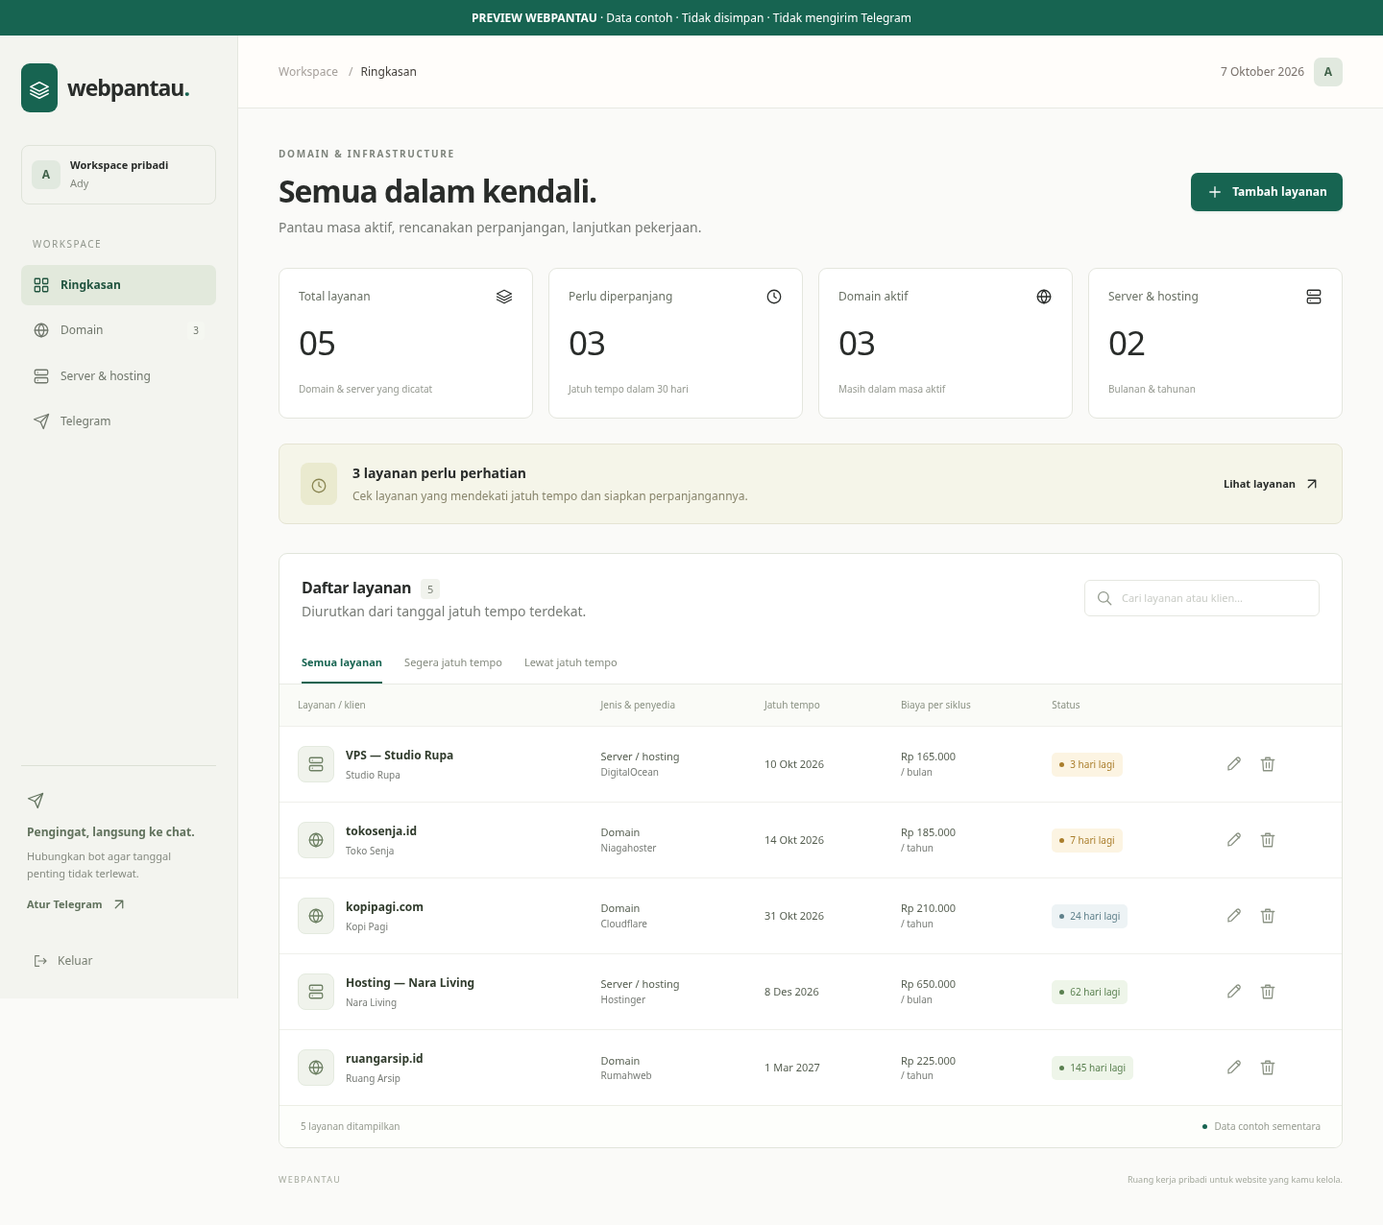
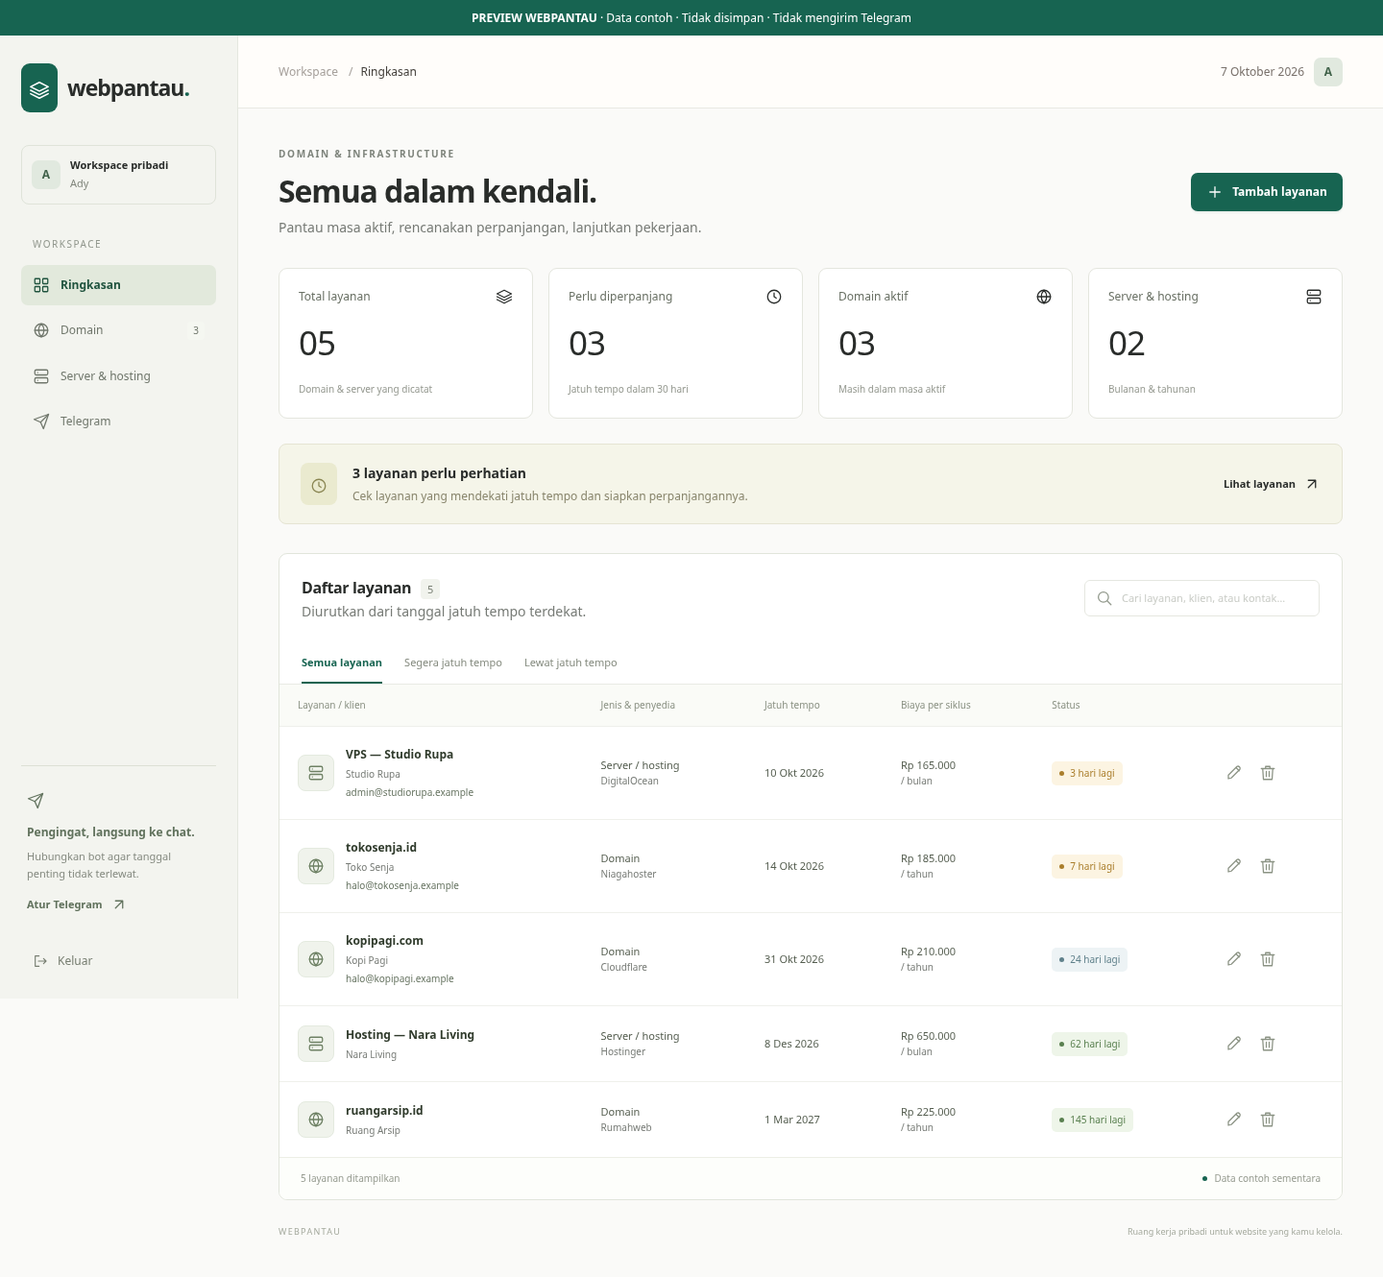
Add optional client contact to service forms and search

diff --git a/preview/index.html b/preview/index.html
@@ -33,6 +33,8 @@ button:focus-visible, a:focus-visible { outline: 2px solid #176451; }
 .main-wrap { min-width: 0; }
 .list-panel .overflow-x-auto { position: relative; }
 
+.service-contact { display: block; margin-top: 4px; color: #687563; max-width: 230px; white-space: normal; overflow-wrap: anywhere; }
+
 .preview-ribbon{background:#176451;color:white;padding:10px 16px;text-align:center;font:12px system-ui;position:relative;z-index:25}.sidebar{top:36px}.preview-ribbon strong{font-weight:700}@media(max-width:767px){.sidebar.open{top:112px}.preview-ribbon{font-size:10px}}</style></head><body>
 <div class="preview-ribbon"><strong>PREVIEW WEBPANTAU</strong> · Data contoh · Tidak disimpan · Tidak mengirim Telegram</div>
 <div id="app"></div><div id="dialog-root"></div><div id="toast-root" aria-live="polite"></div>
@@ -82,7 +84,7 @@ let demoServices = [
     ['3', 'kopipagi.com', 'Kopi Pagi', 'domain', 'Cloudflare', 24, '210000'],
     ['4', 'Hosting — Nara Living', 'Nara Living', 'server', 'Hostinger', 62, '650000'],
     ['5', 'ruangarsip.id', 'Ruang Arsip', 'domain', 'Rumahweb', 145, '225000'],
-].map(([id, name, client, type, provider, offset, cost]) => ({id, name, client, type, provider, cost, expires: demoDate(offset), cycle: type === 'server' ? 'monthly' : 'yearly', website: '', notes: ''}));
+].map(([id, name, client, type, provider, offset, cost]) => ({id, name, client, type, provider, cost, expires: demoDate(offset), cycle: type === 'server' ? 'monthly' : 'yearly', website: '', notes: '', clientContact: {'1': 'halo@tokosenja.example', '2': 'admin@studiorupa.example', '3': 'halo@kopipagi.example'}[id] || ''}));
 let demoTelegram = { hasToken: false, chatId: '', enabled: false, days: [30, 14, 7, 3, 0] };
 async function api(path, method = 'GET', body = {}) {
     if (path === '/auth') return {initialized: true, authenticated: true, username: 'Ady', csrf: 'preview'};
@@ -184,7 +186,7 @@ function dashboardView() {
     ];
     return `<div class="stats-grid">${stats.map(([type, label, count, sub]) => `<div class="stat"><div class="stat-heading"><span>${label}</span>${icon(type)}</div><strong>${String(count).padStart(2, '0')}</strong><small>${sub}</small></div>`).join('')}</div>
         ${state.page === 'overview' ? `<section class="attention"><div class="attention-icon">${icon('clock')}</div><div class="attention-body"><h3>${urgent.length ? `${urgent.length} layanan perlu perhatian` : 'Tanggal penting sudah punya tempat.'}</h3><p>${expired.length ? `${expired.length} layanan melewati jatuh tempo. Periksa status dan perbarui tanggalnya.` : urgent.length ? 'Cek layanan yang mendekati jatuh tempo dan siapkan perpanjangannya.' : 'Tambahkan layanan kamu, lalu hubungkan Telegram untuk pengingat otomatis.'}</p></div><button ${urgent.length ? 'data-filter="urgent"' : 'data-action="add"'}>${urgent.length ? 'Lihat layanan' : 'Mulai mencatat'} ${icon('arrow')}</button></section>` : ''}
-        <section class="list-panel"><div class="list-heading"><div><h2>${state.page === 'overview' ? 'Daftar layanan' : state.page === 'domain' ? 'Daftar domain' : 'Daftar server & hosting'} <span id="result-count"></span></h2><p class="muted text-xs mt-1">Diurutkan dari tanggal jatuh tempo terdekat.</p></div><div class="search">${icon('search')}<input id="search" aria-label="Cari layanan" placeholder="Cari layanan atau klien…" value="${escape(state.query)}"></div></div>
+        <section class="list-panel"><div class="list-heading"><div><h2>${state.page === 'overview' ? 'Daftar layanan' : state.page === 'domain' ? 'Daftar domain' : 'Daftar server & hosting'} <span id="result-count"></span></h2><p class="muted text-xs mt-1">Diurutkan dari tanggal jatuh tempo terdekat.</p></div><div class="search">${icon('search')}<input id="search" aria-label="Cari layanan" placeholder="Cari layanan, klien, atau kontak…" value="${escape(state.query)}"></div></div>
         <div class="tabs">${[['all', 'Semua layanan'], ['urgent', 'Segera jatuh tempo'], ['expired', 'Lewat jatuh tempo']].map(([key, text]) => `<button class="${state.filter === key ? 'selected' : ''}" data-filter="${key}">${text}</button>`).join('')}</div>
         <div class="overflow-x-auto"><table><thead><tr><th>Layanan / klien</th><th>Jenis & penyedia</th><th>Jatuh tempo</th><th>Biaya per siklus</th><th>Status</th><th><span class="sr-only">Tindakan</span></th></tr></thead><tbody id="service-rows"></tbody></table><div id="empty-state"></div></div>
         <div class="list-footer"><span id="footer-count"></span><span class="saved"><span class="dot"></span>Data contoh sementara</span></div></section><div class="footer-note">WEBPANTAU <span>Ruang kerja pribadi untuk website yang kamu kelola.</span></div>`;
@@ -194,12 +196,12 @@ function renderRows() {
     const visible = [...state.services].sort((a, b) => a.expires.localeCompare(b.expires)).filter(s =>
         (!['domain', 'server'].includes(state.page) || s.type === state.page)
         && (state.filter === 'all' || (state.filter === 'urgent' ? daysLeft(s.expires) <= 30 : daysLeft(s.expires) < 0))
-        && `${s.name} ${s.client} ${s.provider}`.toLowerCase().includes(state.query.toLowerCase()));
+        && `${s.name} ${s.client} ${s.clientContact || ''} ${s.provider}`.toLowerCase().includes(state.query.toLowerCase()));
     document.querySelector('#service-rows').innerHTML = visible.map(s => {
         const days = daysLeft(s.expires);
         const badge = days < 0 ? 'red' : days <= 7 ? 'amber' : days <= 30 ? 'blue' : 'green';
         const status = days < 0 ? `Lewat ${-days} hari` : days === 0 ? 'Hari ini' : `${days} hari lagi`;
-        return `<tr><td><div class="service-cell"><span class="service-icon">${icon(s.type)}</span><div><button class="service-name" data-edit="${escape(s.id)}">${escape(s.name)}</button><small class="service-client">${escape(s.client)}</small></div></div></td><td>${s.type === 'domain' ? 'Domain' : 'Server / hosting'}<small class="service-provider">${escape(s.provider || 'Belum dicatat')}</small></td><td>${formatDate(s.expires)}</td><td>${money(s.cost)}<small class="service-provider">/ ${s.cycle === 'monthly' ? 'bulan' : 'tahun'}</small></td><td><span class="badge ${badge}"><span class="dot"></span>${status}</span></td><td><div class="actions"><button class="icon-btn" data-edit="${escape(s.id)}" aria-label="Edit ${escape(s.name)}">${icon('edit')}</button><button class="icon-btn" data-delete="${escape(s.id)}" aria-label="Hapus ${escape(s.name)}">${icon('trash')}</button></div></td></tr>`;
+        return `<tr><td><div class="service-cell"><span class="service-icon">${icon(s.type)}</span><div><button class="service-name" data-edit="${escape(s.id)}">${escape(s.name)}</button><small class="service-client">${escape(s.client)}</small>${s.clientContact ? `<small class="service-contact">${escape(s.clientContact)}</small>` : ''}</div></div></td><td>${s.type === 'domain' ? 'Domain' : 'Server / hosting'}<small class="service-provider">${escape(s.provider || 'Belum dicatat')}</small></td><td>${formatDate(s.expires)}</td><td>${money(s.cost)}<small class="service-provider">/ ${s.cycle === 'monthly' ? 'bulan' : 'tahun'}</small></td><td><span class="badge ${badge}"><span class="dot"></span>${status}</span></td><td><div class="actions"><button class="icon-btn" data-edit="${escape(s.id)}" aria-label="Edit ${escape(s.name)}">${icon('edit')}</button><button class="icon-btn" data-delete="${escape(s.id)}" aria-label="Hapus ${escape(s.name)}">${icon('trash')}</button></div></td></tr>`;
     }).join('');
     document.querySelector('#result-count').textContent = visible.length;
     document.querySelector('#footer-count').textContent = `${visible.length} layanan ditampilkan`;
@@ -232,11 +234,11 @@ function closeDialog() {
 }
 
 function editService(service = null) {
-    const s = service || { name: '', client: '', website: '', provider: '', type: state.page === 'server' ? 'server' : 'domain', cycle: state.page === 'server' ? 'monthly' : 'yearly', expires: '', cost: '', notes: '' };
-    const field = (key, label, placeholder, type = 'text', required = false) => `<label class="field"><span>${label}</span><input name="${key}" type="${type}" value="${escape(s[key])}" placeholder="${placeholder}" ${required ? 'required' : ''} ${type === 'number' ? 'min="0" step="1"' : ''} maxlength="${['name', 'client'].includes(key) ? 120 : 2000}"></label>`;
+    const s = service || { name: '', client: '', clientContact: '', website: '', provider: '', type: state.page === 'server' ? 'server' : 'domain', cycle: state.page === 'server' ? 'monthly' : 'yearly', expires: '', cost: '', notes: '' };
+    const field = (key, label, placeholder, type = 'text', required = false) => `<label class="field"><span>${label}</span><input name="${key}" type="${type}" value="${escape(s[key])}" placeholder="${placeholder}" ${required ? 'required' : ''} ${type === 'number' ? 'min="0" step="1"' : ''} maxlength="${key === 'clientContact' ? 200 : ['name', 'client'].includes(key) ? 120 : 2000}"></label>`;
     openDialog(`<div class="row-flex mb-6"><div><h2 id="dialog-title">${s.id ? 'Detail & perpanjangan' : 'Tambah layanan'}</h2><p class="muted text-sm mt-1">${s.id ? 'Setelah diperpanjang, ubah tanggal jatuh tempo di sini.' : 'Catat satu domain atau paket server.'}</p></div><button data-action="close" aria-label="Tutup">${icon('close')}</button></div>
         <form id="service-form" data-id="${escape(s.id || '')}"><div class="form-grid">
-        ${field('name', 'Nama layanan', 'contoh: tokokita.com', 'text', true)}${field('client', 'Nama klien', 'contoh: Toko Kita', 'text', true)}${field('website', 'URL website', 'https://tokokita.com')}${field('provider', 'Penyedia', 'contoh: Niagahoster')}
+        ${field('name', 'Nama layanan', 'contoh: tokokita.com', 'text', true)}${field('client', 'Nama klien', 'contoh: Toko Kita', 'text', true)}${field('clientContact', 'Kontak klien (opsional)', 'Nomor WhatsApp, telepon, atau email')}${field('website', 'URL website', 'https://tokokita.com')}${field('provider', 'Penyedia', 'contoh: Niagahoster')}
         <label class="field"><span>Jenis layanan</span><select name="type"><option value="domain" ${s.type === 'domain' ? 'selected' : ''}>Domain</option><option value="server" ${s.type === 'server' ? 'selected' : ''}>Server / hosting</option></select></label>
         <label class="field"><span>Siklus pembayaran</span><select name="cycle"><option value="yearly" ${s.cycle === 'yearly' ? 'selected' : ''}>Tahunan</option><option value="monthly" ${s.cycle === 'monthly' ? 'selected' : ''}>Bulanan</option></select></label>
         ${field('expires', 'Tanggal jatuh tempo', '', 'date', true)}${field('cost', 'Biaya per siklus (Rp)', '150000', 'number', true)}</div>

diff --git a/public/assets/app.js b/public/assets/app.js
@@ -117,7 +117,7 @@ function dashboardView() {
     ];
     return `<div class="stats-grid">${stats.map(([type, label, count, sub]) => `<div class="stat"><div class="stat-heading"><span>${label}</span>${icon(type)}</div><strong>${String(count).padStart(2, '0')}</strong><small>${sub}</small></div>`).join('')}</div>
         ${state.page === 'overview' ? `<section class="attention"><div class="attention-icon">${icon('clock')}</div><div class="attention-body"><h3>${urgent.length ? `${urgent.length} layanan perlu perhatian` : 'Tanggal penting sudah punya tempat.'}</h3><p>${expired.length ? `${expired.length} layanan melewati jatuh tempo. Periksa status dan perbarui tanggalnya.` : urgent.length ? 'Cek layanan yang mendekati jatuh tempo dan siapkan perpanjangannya.' : 'Tambahkan layanan kamu, lalu hubungkan Telegram untuk pengingat otomatis.'}</p></div><button ${urgent.length ? 'data-filter="urgent"' : 'data-action="add"'}>${urgent.length ? 'Lihat layanan' : 'Mulai mencatat'} ${icon('arrow')}</button></section>` : ''}
-        <section class="list-panel"><div class="list-heading"><div><h2>${state.page === 'overview' ? 'Daftar layanan' : state.page === 'domain' ? 'Daftar domain' : 'Daftar server & hosting'} <span id="result-count"></span></h2><p class="muted text-xs mt-1">Diurutkan dari tanggal jatuh tempo terdekat.</p></div><div class="search">${icon('search')}<input id="search" aria-label="Cari layanan" placeholder="Cari layanan atau klien…" value="${escape(state.query)}"></div></div>
+        <section class="list-panel"><div class="list-heading"><div><h2>${state.page === 'overview' ? 'Daftar layanan' : state.page === 'domain' ? 'Daftar domain' : 'Daftar server & hosting'} <span id="result-count"></span></h2><p class="muted text-xs mt-1">Diurutkan dari tanggal jatuh tempo terdekat.</p></div><div class="search">${icon('search')}<input id="search" aria-label="Cari layanan" placeholder="Cari layanan, klien, atau kontak…" value="${escape(state.query)}"></div></div>
         <div class="tabs">${[['all', 'Semua layanan'], ['urgent', 'Segera jatuh tempo'], ['expired', 'Lewat jatuh tempo']].map(([key, text]) => `<button class="${state.filter === key ? 'selected' : ''}" data-filter="${key}">${text}</button>`).join('')}</div>
         <div class="overflow-x-auto"><table><thead><tr><th>Layanan / klien</th><th>Jenis & penyedia</th><th>Jatuh tempo</th><th>Biaya per siklus</th><th>Status</th><th><span class="sr-only">Tindakan</span></th></tr></thead><tbody id="service-rows"></tbody></table><div id="empty-state"></div></div>
         <div class="list-footer"><span id="footer-count"></span><span class="saved"><span class="dot"></span>Data tersimpan di server</span></div></section><div class="footer-note">WEBPANTAU <span>Ruang kerja pribadi untuk website yang kamu kelola.</span></div>`;
@@ -127,12 +127,12 @@ function renderRows() {
     const visible = [...state.services].sort((a, b) => a.expires.localeCompare(b.expires)).filter(s =>
         (!['domain', 'server'].includes(state.page) || s.type === state.page)
         && (state.filter === 'all' || (state.filter === 'urgent' ? daysLeft(s.expires) <= 30 : daysLeft(s.expires) < 0))
-        && `${s.name} ${s.client} ${s.provider}`.toLowerCase().includes(state.query.toLowerCase()));
+        && `${s.name} ${s.client} ${s.clientContact || ''} ${s.provider}`.toLowerCase().includes(state.query.toLowerCase()));
     document.querySelector('#service-rows').innerHTML = visible.map(s => {
         const days = daysLeft(s.expires);
         const badge = days < 0 ? 'red' : days <= 7 ? 'amber' : days <= 30 ? 'blue' : 'green';
         const status = days < 0 ? `Lewat ${-days} hari` : days === 0 ? 'Hari ini' : `${days} hari lagi`;
-        return `<tr><td><div class="service-cell"><span class="service-icon">${icon(s.type)}</span><div><button class="service-name" data-edit="${escape(s.id)}">${escape(s.name)}</button><small class="service-client">${escape(s.client)}</small></div></div></td><td>${s.type === 'domain' ? 'Domain' : 'Server / hosting'}<small class="service-provider">${escape(s.provider || 'Belum dicatat')}</small></td><td>${formatDate(s.expires)}</td><td>${money(s.cost)}<small class="service-provider">/ ${s.cycle === 'monthly' ? 'bulan' : 'tahun'}</small></td><td><span class="badge ${badge}"><span class="dot"></span>${status}</span></td><td><div class="actions"><button class="icon-btn" data-edit="${escape(s.id)}" aria-label="Edit ${escape(s.name)}">${icon('edit')}</button><button class="icon-btn" data-delete="${escape(s.id)}" aria-label="Hapus ${escape(s.name)}">${icon('trash')}</button></div></td></tr>`;
+        return `<tr><td><div class="service-cell"><span class="service-icon">${icon(s.type)}</span><div><button class="service-name" data-edit="${escape(s.id)}">${escape(s.name)}</button><small class="service-client">${escape(s.client)}</small>${s.clientContact ? `<small class="service-contact">${escape(s.clientContact)}</small>` : ''}</div></div></td><td>${s.type === 'domain' ? 'Domain' : 'Server / hosting'}<small class="service-provider">${escape(s.provider || 'Belum dicatat')}</small></td><td>${formatDate(s.expires)}</td><td>${money(s.cost)}<small class="service-provider">/ ${s.cycle === 'monthly' ? 'bulan' : 'tahun'}</small></td><td><span class="badge ${badge}"><span class="dot"></span>${status}</span></td><td><div class="actions"><button class="icon-btn" data-edit="${escape(s.id)}" aria-label="Edit ${escape(s.name)}">${icon('edit')}</button><button class="icon-btn" data-delete="${escape(s.id)}" aria-label="Hapus ${escape(s.name)}">${icon('trash')}</button></div></td></tr>`;
     }).join('');
     document.querySelector('#result-count').textContent = visible.length;
     document.querySelector('#footer-count').textContent = `${visible.length} layanan ditampilkan`;
@@ -165,11 +165,11 @@ function closeDialog() {
 }
 
 function editService(service = null) {
-    const s = service || { name: '', client: '', website: '', provider: '', type: state.page === 'server' ? 'server' : 'domain', cycle: state.page === 'server' ? 'monthly' : 'yearly', expires: '', cost: '', notes: '' };
-    const field = (key, label, placeholder, type = 'text', required = false) => `<label class="field"><span>${label}</span><input name="${key}" type="${type}" value="${escape(s[key])}" placeholder="${placeholder}" ${required ? 'required' : ''} ${type === 'number' ? 'min="0" step="1"' : ''} maxlength="${['name', 'client'].includes(key) ? 120 : 2000}"></label>`;
+    const s = service || { name: '', client: '', clientContact: '', website: '', provider: '', type: state.page === 'server' ? 'server' : 'domain', cycle: state.page === 'server' ? 'monthly' : 'yearly', expires: '', cost: '', notes: '' };
+    const field = (key, label, placeholder, type = 'text', required = false) => `<label class="field"><span>${label}</span><input name="${key}" type="${type}" value="${escape(s[key])}" placeholder="${placeholder}" ${required ? 'required' : ''} ${type === 'number' ? 'min="0" step="1"' : ''} maxlength="${key === 'clientContact' ? 200 : ['name', 'client'].includes(key) ? 120 : 2000}"></label>`;
     openDialog(`<div class="row-flex mb-6"><div><h2 id="dialog-title">${s.id ? 'Detail & perpanjangan' : 'Tambah layanan'}</h2><p class="muted text-sm mt-1">${s.id ? 'Setelah diperpanjang, ubah tanggal jatuh tempo di sini.' : 'Catat satu domain atau paket server.'}</p></div><button data-action="close" aria-label="Tutup">${icon('close')}</button></div>
         <form id="service-form" data-id="${escape(s.id || '')}"><div class="form-grid">
-        ${field('name', 'Nama layanan', 'contoh: tokokita.com', 'text', true)}${field('client', 'Nama klien', 'contoh: Toko Kita', 'text', true)}${field('website', 'URL website', 'https://tokokita.com')}${field('provider', 'Penyedia', 'contoh: Niagahoster')}
+        ${field('name', 'Nama layanan', 'contoh: tokokita.com', 'text', true)}${field('client', 'Nama klien', 'contoh: Toko Kita', 'text', true)}${field('clientContact', 'Kontak klien (opsional)', 'Nomor WhatsApp, telepon, atau email')}${field('website', 'URL website', 'https://tokokita.com')}${field('provider', 'Penyedia', 'contoh: Niagahoster')}
         <label class="field"><span>Jenis layanan</span><select name="type"><option value="domain" ${s.type === 'domain' ? 'selected' : ''}>Domain</option><option value="server" ${s.type === 'server' ? 'selected' : ''}>Server / hosting</option></select></label>
         <label class="field"><span>Siklus pembayaran</span><select name="cycle"><option value="yearly" ${s.cycle === 'yearly' ? 'selected' : ''}>Tahunan</option><option value="monthly" ${s.cycle === 'monthly' ? 'selected' : ''}>Bulanan</option></select></label>
         ${field('expires', 'Tanggal jatuh tempo', '', 'date', true)}${field('cost', 'Biaya per siklus (Rp)', '150000', 'number', true)}</div>

diff --git a/public/assets/details.css b/public/assets/details.css
@@ -28,3 +28,5 @@ button:focus-visible, a:focus-visible { outline: 2px solid #176451; }
 @media (max-width: 767px) { .mobile-menu { display: block; } .topbar-date { display: none; } }
 .main-wrap { min-width: 0; }
 .list-panel .overflow-x-auto { position: relative; }
+
+.service-contact { display: block; margin-top: 4px; color: #687563; max-width: 230px; white-space: normal; overflow-wrap: anywhere; }

diff --git a/tests/api.py b/tests/api.py
@@ -59,8 +59,16 @@ with tempfile.TemporaryDirectory(prefix='webpantau-api-') as directory:
             status, created = call('/services', 'POST', row)
             assert status == 201
             assert created['website'] == 'https://example.com'
+            assert created['clientContact'] == ''  # Old records/clients need no migration.
+            row['clientContact'] = 'WhatsApp: +62 812-0000-0000 / owner@example.test'
+            assert call('/services', 'POST', dict(row, clientContact='x' * 201))[0] == 400
+            assert call('/services', 'POST', dict(row, clientContact=['invalid']))[0] == 400
             assert call('/services/' + created['id'], 'PUT', dict(row, expires='2028-04-20'))[0] == 200
-            assert call('/services')[1][0]['expires'] == '2028-04-20'
+            saved_row = call('/services')[1][0]
+            assert saved_row['expires'] == '2028-04-20'
+            assert saved_row['clientContact'] == row['clientContact']
+            assert call('/services/' + created['id'], 'PUT', dict(row, clientContact=''))[0] == 200
+            assert call('/services')[1][0]['clientContact'] == ''
             assert call('/services', 'POST', row, False)[0] == 403
             assert call('/telegram', 'PUT', {'chatId': '123', 'enabled': True, 'days': [7]})[0] == 400
             dummy = '123456:abcdefghijklmnopqrstuvwxyz'

diff --git a/app/bootstrap.php b/app/bootstrap.php
@@ -111,11 +111,14 @@ function start_session(): void
 function validate_service(array $body): array
 {
     $service = [];
-    foreach (['name', 'client', 'website', 'provider', 'type', 'cycle', 'expires', 'cost', 'notes'] as $key) {
+    foreach (['name', 'client', 'clientContact', 'website', 'provider', 'type', 'cycle', 'expires', 'cost', 'notes'] as $key) {
         $service[$key] = is_string($body[$key] ?? null) ? trim($body[$key]) : '';
         if (strlen($service[$key]) > 2000) {
             throw new InvalidArgumentException('Isian terlalu panjang.');
         }
+    }
+    if (!is_string($body['clientContact'] ?? '') || strlen($service['clientContact']) > 200) {
+        throw new InvalidArgumentException('Kontak klien maksimal 200 karakter.');
     }
     $date = DateTimeImmutable::createFromFormat('!Y-m-d', $service['expires']);
     if ($service['name'] === '' || $service['client'] === '' || strlen($service['name']) > 120

diff --git a/README.md b/README.md
@@ -47,7 +47,7 @@ Jika site sudah aktif, cukup jalankan baris pemeriksaan dan reload. Pastikan DNS
 
 ## 4. Buka dashboard dan buat akun
 
-Buka domain Webpantau, buat nama pengguna dan kata sandi, lalu tambahkan domain/server kamu. Tidak ada akun bawaan. Selesaikan pendaftaran lewat akses privat sebelum membuka site ke publik. Jika site harus terbuka lebih dulu, gunakan `SETUP_KEY` sesuai [panduan teknis](docs/TECHNICAL.md).
+Buka domain Webpantau, buat nama pengguna dan kata sandi, lalu tambahkan domain/server kamu. Kontak klien bisa diisi dengan nomor WhatsApp, telepon, atau email pada formulir layanan; kolom ini opsional. Untuk layanan lama, klik edit lalu tambahkan kontaknya. Tidak ada akun bawaan. Selesaikan pendaftaran lewat akses privat sebelum membuka site ke publik. Jika site harus terbuka lebih dulu, gunakan `SETUP_KEY` sesuai [panduan teknis](docs/TECHNICAL.md).
 
 Menu **Telegram** menyediakan kolom token bot dan chat ID. Kirim `/start` ke botmu, isi pengaturan di dashboard, lalu klik **Simpan pengaturan → Uji pengiriman**. PHP memerlukan ekstensi cURL untuk fitur Telegram; periksa dengan `php8.3 -m`. Jika cURL belum tersedia, pasang `php8.3-curl` dan restart PHP-FPM.
 
